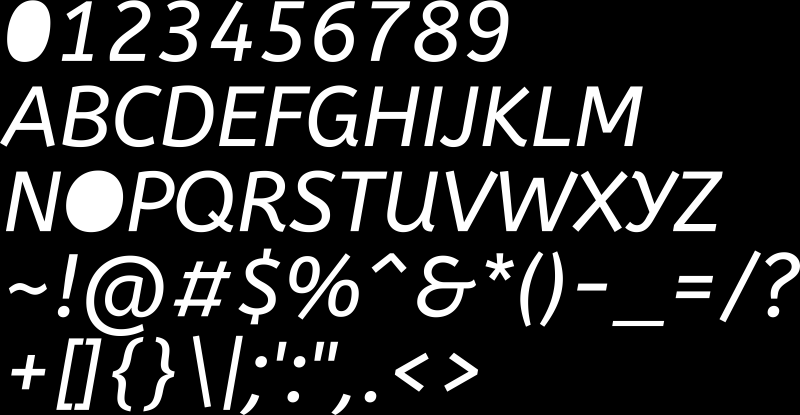
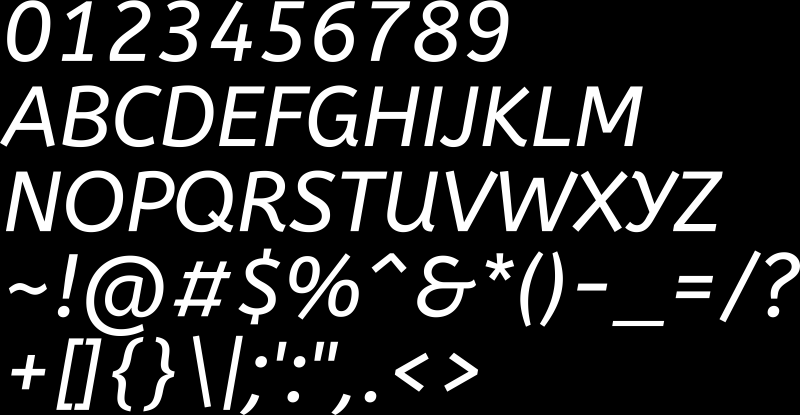
Fix abeezee_italic

Changed region(s): [[0.0, 0.0, 0.0625, 0.1446], [0.0938, 0.4337, 0.1562, 0.5494]]

diff --git a/gerber/fonts/abeezee_italic/font.go b/gerber/fonts/abeezee_italic/font.go
@@ -984,19 +984,19 @@ var abeezee_italicFont = &gerber.Font{
 		"O": {
 			HorizAdvX: 738,
 			Unicode:   "O",
-			GerberLP:  "dd",
+			GerberLP:  "dc",
 			PathSteps: []*gerber.PathStep{
-				{C: 'M', P: []float64{416, 630}},
-				{C: 'c', P: []float64{-171, 0, -272, -160, -272, -329}},
-				{C: 'c', P: []float64{0, -128, 70, -231, 203, -231}},
-				{C: 'c', P: []float64{171, 0, 272, 160, 272, 329}},
-				{C: 'c', P: []float64{0, 128, -70, 231, -203, 231}},
-				{C: 'z'},
 				{C: 'M', P: []float64{339, -12}},
 				{C: 'c', P: []float64{-188, 0, -292, 135, -292, 307}},
 				{C: 'c', P: []float64{0, 213, 138, 417, 377, 417}},
 				{C: 'c', P: []float64{188, 0, 292, -135, 292, -307}},
 				{C: 'c', P: []float64{0, -213, -138, -417, -377, -417}},
+				{C: 'z'},
+				{C: 'M', P: []float64{416, 630}},
+				{C: 'c', P: []float64{-171, 0, -272, -160, -272, -329}},
+				{C: 'c', P: []float64{0, -128, 70, -231, 203, -231}},
+				{C: 'c', P: []float64{171, 0, 272, 160, 272, 329}},
+				{C: 'c', P: []float64{0, 128, -70, 231, -203, 231}},
 				{C: 'z'},
 			},
 		},
@@ -5579,19 +5579,19 @@ var abeezee_italicFont = &gerber.Font{
 		"0": {
 			HorizAdvX: 0,
 			Unicode:   "0",
-			GerberLP:  "dd",
+			GerberLP:  "dc",
 			PathSteps: []*gerber.PathStep{
-				{C: 'M', P: []float64{271, 70}},
-				{C: 'c', P: []float64{127, 0, 196, 183, 196, 386}},
-				{C: 'c', P: []float64{0, 112, -40, 174, -118, 174}},
-				{C: 'c', P: []float64{-127, 0, -196, -183, -196, -386}},
-				{C: 'c', P: []float64{0, -112, 40, -174, 118, -174}},
-				{C: 'z'},
 				{C: 'M', P: []float64{261, -12}},
 				{C: 'c', P: []float64{-133, 0, -205, 101, -205, 262}},
 				{C: 'c', P: []float64{0, 225, 94, 462, 303, 462}},
 				{C: 'c', P: []float64{133, 0, 205, -101, 205, -262}},
 				{C: 'c', P: []float64{0, -225, -94, -462, -303, -462}},
+				{C: 'z'},
+				{C: 'M', P: []float64{271, 70}},
+				{C: 'c', P: []float64{127, 0, 196, 183, 196, 386}},
+				{C: 'c', P: []float64{0, 112, -40, 174, -118, 174}},
+				{C: 'c', P: []float64{-127, 0, -196, -183, -196, -386}},
+				{C: 'c', P: []float64{0, -112, 40, -174, 118, -174}},
 				{C: 'z'},
 			},
 		},
